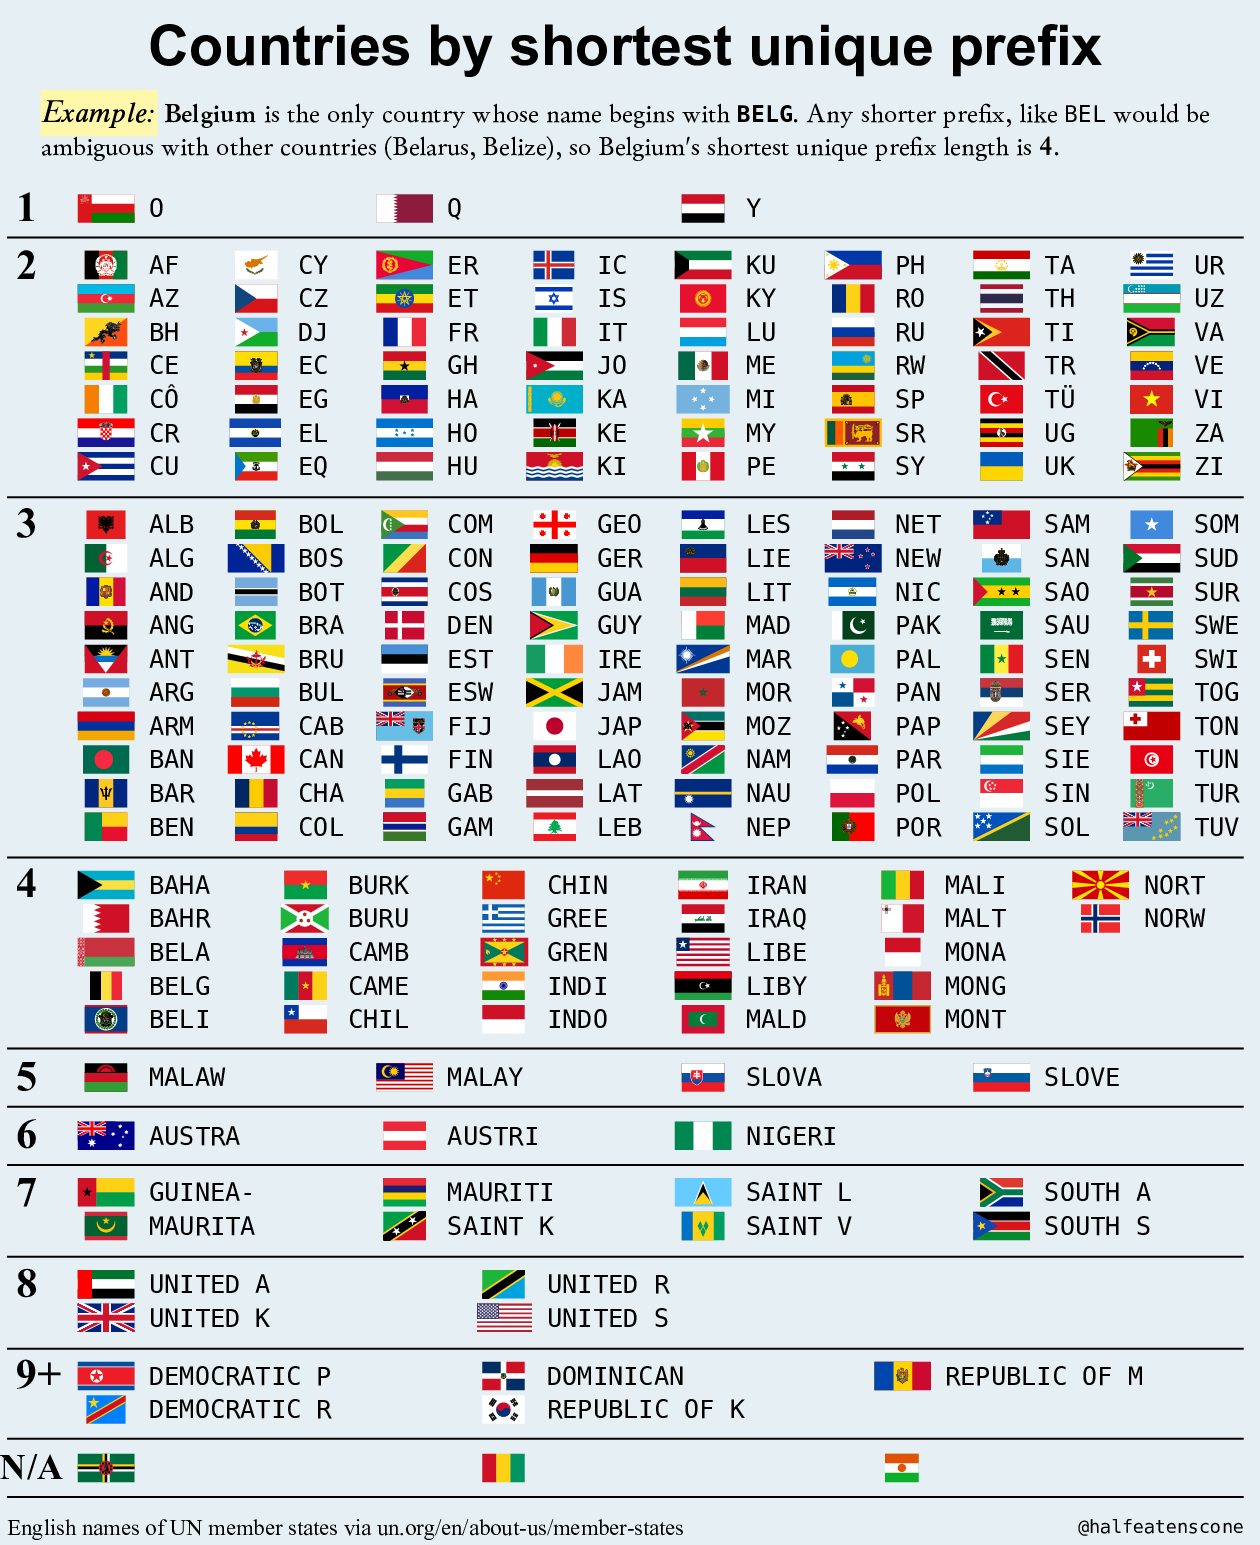
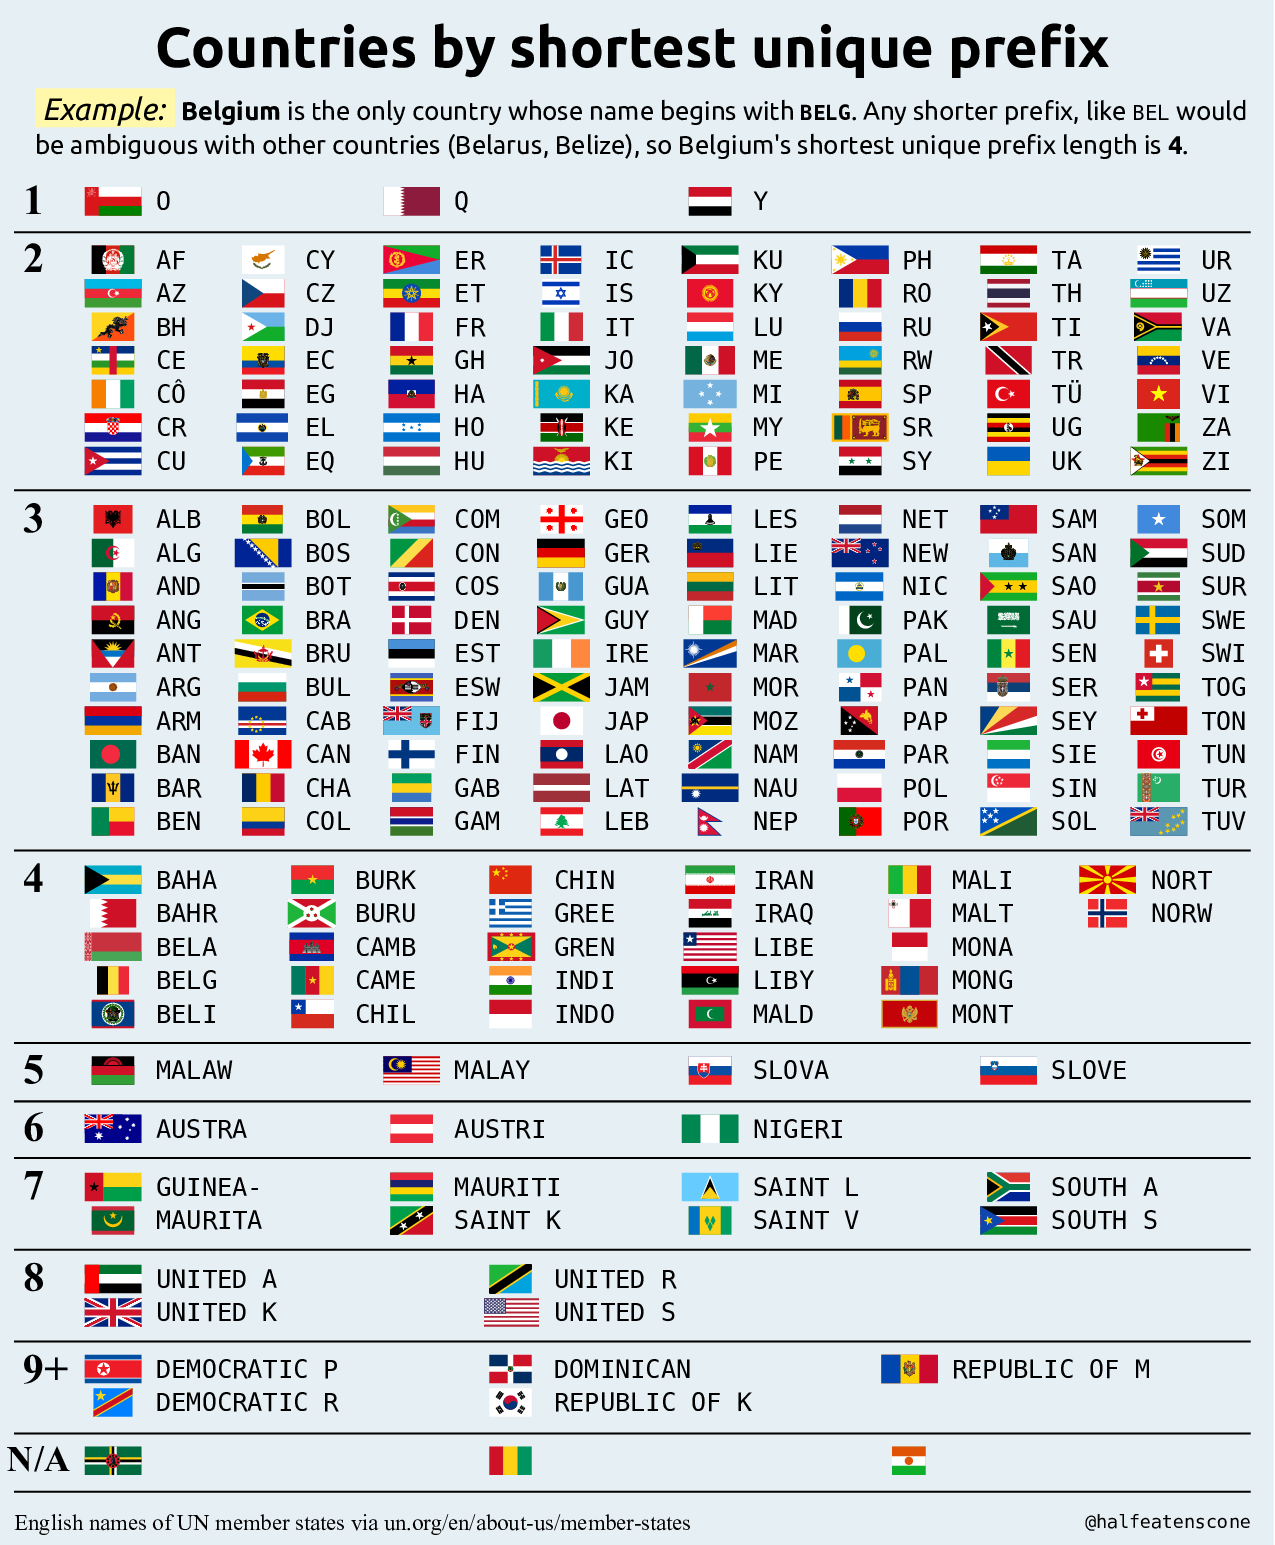
CSS hell

Changed region(s): [[0.0, 0.0, 0.9905, 0.9942], [0.0, 0.5592, 0.031, 0.5903]]

diff --git a/common.css b/common.css
@@ -3,21 +3,23 @@ body {
 }
 
 h1 {
-    font-family: sans-serif;
+    font-family: Ubuntu;
     text-align: center;
     margin-bottom: .24em;
 }
 
 #preamble {
     border-bottom: initial;
-    margin-left: 1.2em;
+    margin-left: 0.8em;
     margin-bottom: 1em;
-    font-family: Asea, serif;
+    font-family: Ubuntu;
+    font-size: .91em;
+    line-height: 120%;
 }
 
 #preamble em {
     font-size: 1.2em;
-    padding: .1em;
+    padding: .1em .35em .1em .25em;
     background-color: #fff8ab;
 }
 
